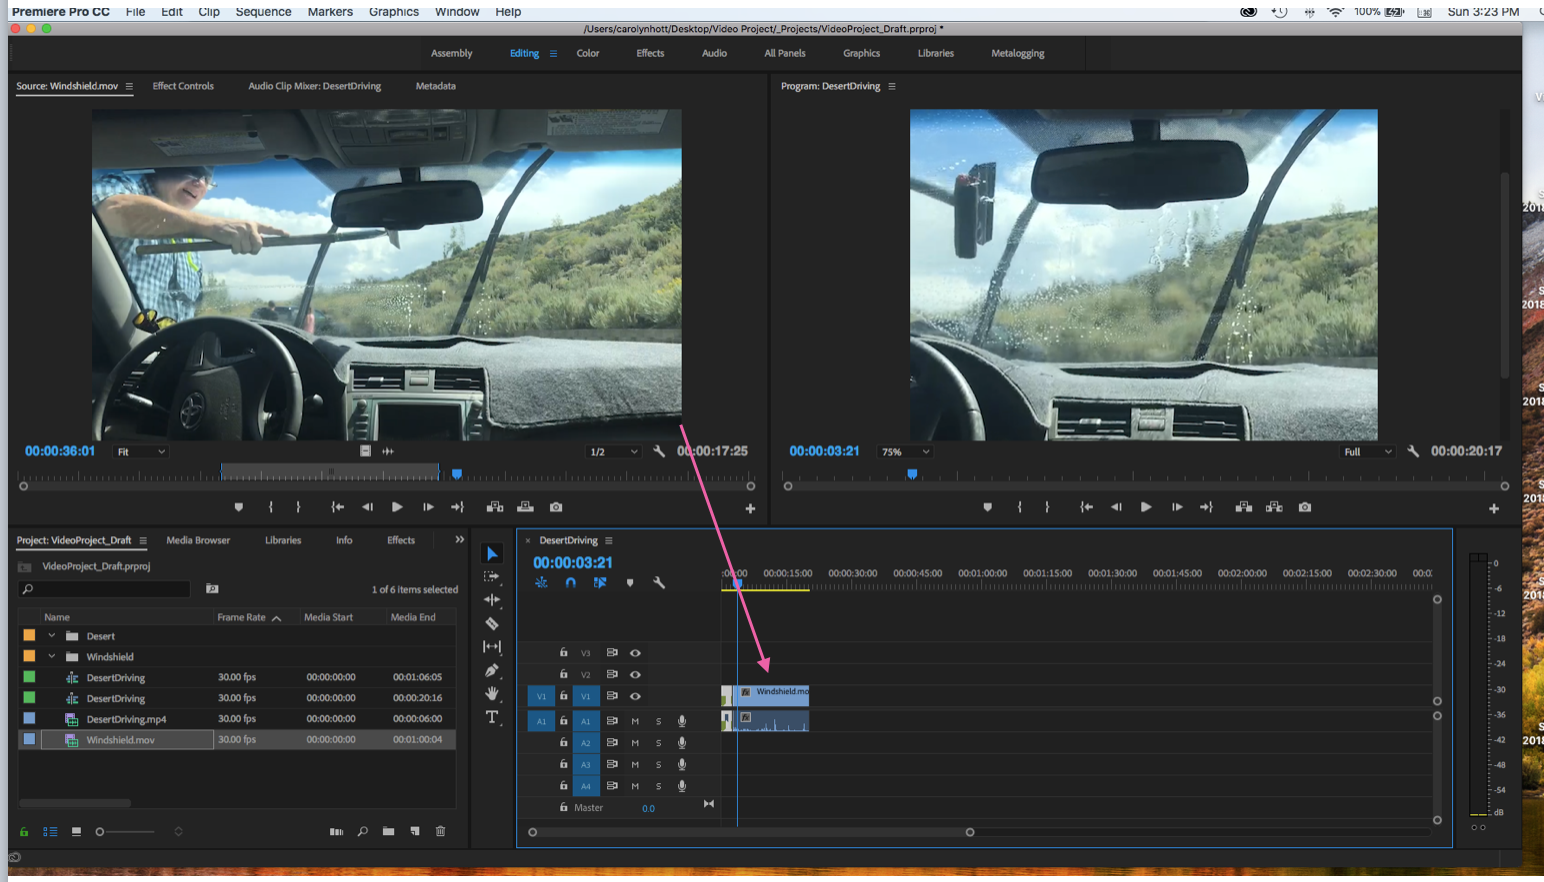
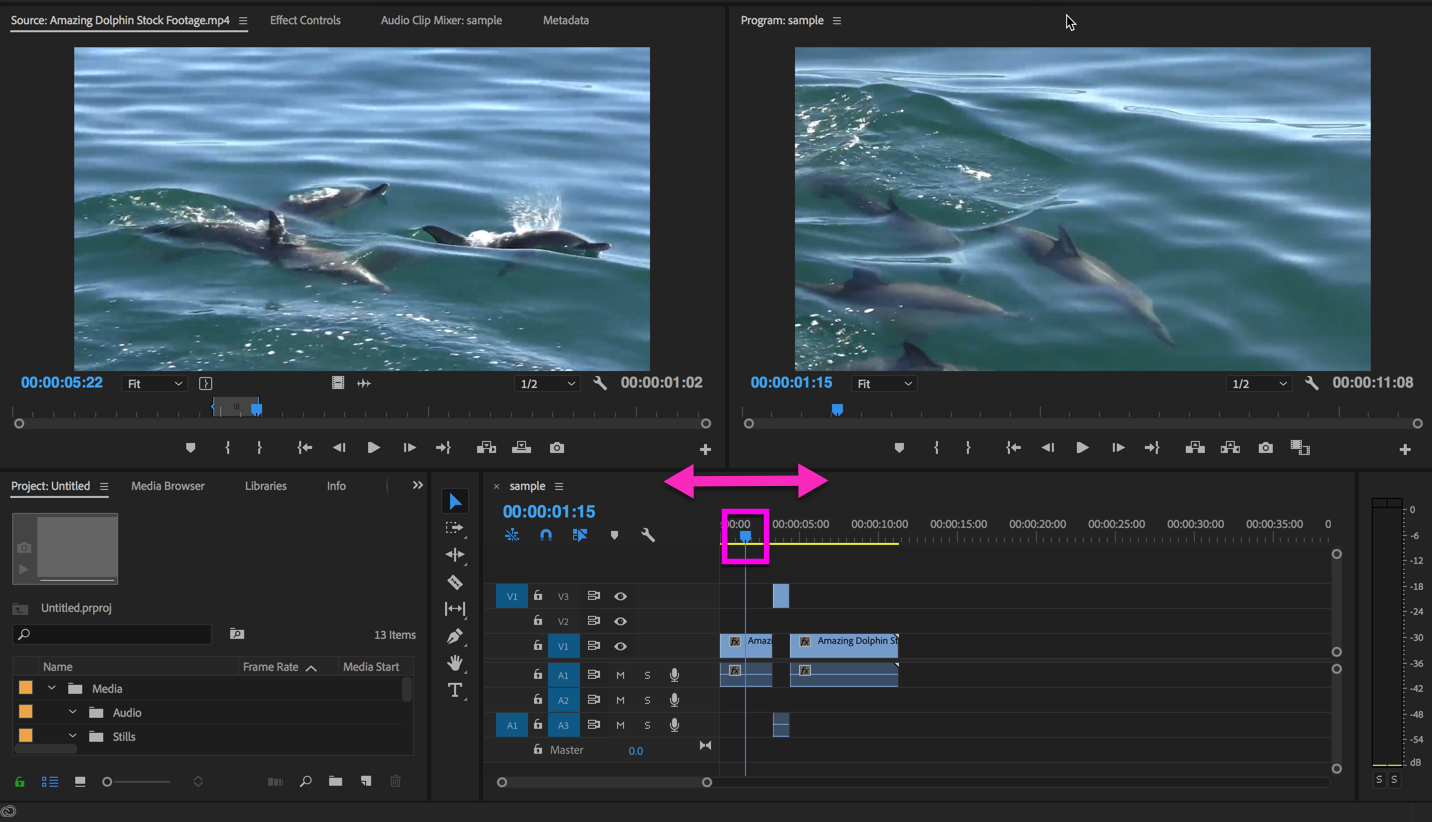
updates to premiere tutorial

diff --git a/tutorials/01_Premiere/README.md b/tutorials/01_Premiere/README.md
@@ -52,15 +52,39 @@ We will watch [Premiere Pro CC 2017 Essential Training: The Basics ](https://www
 
 Organize your files with a consistent folder structure *that's the same for all your projects*. The easiest way to do this is to create a "workflow template" — a set of mostly empty folders that you copy and rename every time you start a new project.
 
-Download the Video Workflow Template zip file in the [resources](../../resources) folder
+1. Create a folder for this class
+
+2. **Download the [Video Workflow Template zip file](../../resources/videoWorkFlowTemplate.zip) and place it in your class folder**
+
+
+3. Unzip and rename the VideoWorkFlowTemplate folder "premiereInClassExercise"
+  * Double-click the file to unzip on a Mac
   * Check out [this tutorial](https://www.techwalla.com/articles/how-to-open-a-mac-zip-file-in-windows) if you are having trouble unzipping it in Windows
 
-It looks like this: <br>
+4. Download the sample footage from the class google drive Assets folder, and add it to the Source Media > Video > fromInternet folder
+
+Your folder structure should look like this: <br>
 ![this](../../resources/videoWorkflowTemplatePic.png)
 <br>
 <br>
 
-Tutorials for renaming all your footage files at once:
+***Tip:***
+
+*When you import footage from you camera, it will probably have meaningless numbered names for the files. You should rename them something that indicates what the footage is. There are ways to rename files in batches with sequential prefixes.*
+
+*For example:*
+
+X679976.mp4
+X679977.mp4
+X679978.mp4
+
+*magically transforms into:*
+
+eveningShoot_Sam_00.mp4
+eveningShoot_Sam_01.mp4
+eveningShoot_Sam_02.mp4
+
+**Tutorials for renaming all your footage files at once:**
 * [Windows users](http://www.ubergizmo.com/how-to/batch-rename-files-windows/)
 * [Mac users](https://www.imore.com/how-rename-multiple-files-once-mac)
 
@@ -76,7 +100,7 @@ Tutorials for renaming all your footage files at once:
 
 Here is [a link](https://helpx.adobe.com/premiere-pro/using/default-keyboard-shortcuts-cc.html) to Adobe's full list of keyboard shortcuts. Below are notable ones to remember.
 
-| Basic Operations          | Window       | Mac         |
+| Basic Operations          | Windows       | Mac         |
 |---------------------------|--------------|-------------|
 |       Save                | Ctrl+S       | Cmd+S       |
 |       Save As...          | Ctrl+Shift+S | Shift+Cmd+S |
@@ -91,7 +115,7 @@ Here is [a link](https://helpx.adobe.com/premiere-pro/using/default-keyboard-sho
 |       Find...             | Ctrl+F       | Cmd+F       |
 
 
-| Sequence shortcuts                                        |              |             |
+| Sequence shortcuts                                        | Windows             |  Mac           |
 |--------------------------------------------------|--------------|-------------|
 |       Play/Stop Toggle                           | Space or K   | Space or K  |
 |         Play: Forward and Backward               | J,K,L        | J, K, L     |
@@ -150,79 +174,99 @@ Here is [a link](https://helpx.adobe.com/premiere-pro/using/default-keyboard-sho
 
 ![Set Up Workspace](assets/2_Premiere_SetUpWorkspace.png)
 
-* Once the workspace is open, go to the ‘Editing’ interface. You can open new tabs in ‘Window’
+* Once the workspace is open, go to the ‘Editing’ interface. You can open new tabs in the ‘Window’ menu at the top.
 
 #### ▼ What is the Workspace?
 
 ![ Workspace](assets/3_Premiere_WhatIsWorkspace.png)
 
-* The Editing Workspace is made up of four main windows: Source Monitor, Program Monitor, Timeline, Tool Palette, Project Window, and Audio Meters
+* The Editing Workspace is made up of four main panels: Source Monitor, Program Monitor, Timeline, Tool Palette, Project Panel, and Audio Meters
 
 #### ▼ Import Footage
 
 ![Import](assets/4_Premiere_Import.png)
 
-* From the Media Browser in the Project Window, right click in the window (or Cmd I/Ctrl I) and select ‘Import” and locate footage on your computer
-* Once footage is in the Media Browser you can hover over it to make sure it is the footage you want
-* Footage is now in the ‘Media Bin’
-* Double click on footage and it will show in the Source Monitor
+* From the Project tab in the Project Panel, hit Cmd I/Ctrl I or right-click in the panel and select ‘Import”.
+* Locate footage on your computer and import
+  - \*These should be in your Source Media > Video folder
+* Once footage is in the Project tab you can hover over it to make sure it is the footage you want
+* This footage is now available for use in your project!
+
+#### ▼ Save Your Project
+* If you haven't already, save your project now.
+* An asterisk next to the file name means there are unsaved changes
 
 #### ▼ View and Organize Footage
 
 ![Footage](assets/5_Premiere_OrganizeFtg.png)
 
 * Double click on footage and it will show in the Source Monitor
-* In the Media Bin, rename and organize footage as desired- keep organized according to type of shot
-* Press Command + B (mac) or Ctrl + B (windows) while in the bin in the Project window to create new ‘bins’ (folders) within your Media bin.
+* In the Project tab, rename and organize footage as desired- keep organized according to type of shot
+* Press Command + B (mac) or Ctrl + B (windows) to create new ‘bins’ (folders)
+* DON'T SKIP THIS STEP--->>>> ***KEEP YOUR FOOTAGE ORGANIZED YOU WILL THANK YOURSELF LATER***
 
-#### ▼ Select a clip within Footage
+![Folder Organization](assets/5_Premiere_OrganizeFtg_1.png)
+* ^ Here is an example of a folder structure for organization. You can create one that works for you.
+
+#### ▼ Isolate clip within Footage
 
 ![Select Clip](assets/6_Premiere_SelectFtg.png)
 
-* If you don’t want to use all of your footage but want to select a clip within footage to use in your video:
-* Click in your Source Monitor window and press play, or the space bar and decide what you want to use
-* You can save the place of where you want your clip by using the ‘Marker’ arrows
-* Where you want your clip to begin, press ‘I’, or use the ‘Mark In’ tool ‘{‘
-* Where you want your clip to end, press ‘O’ or use the ‘Mark Out’ tool ‘}’
+* You probably won't be using your entire clip, so you need to isolate the footage you want to edit
+* Click in your Source Monitor panel and preview footage
+  * Navigate footage with play / space bar
+  * OR! use j k and l to go backwards and forwards. If you double click on one it will play twice as fast
+* (You can bookmark places in your clip by using the ‘Marker’ arrows or by hitting m)
+* To set your **in-point** - where you want your clip to begin - press ‘I’, or use the ‘Mark In’ tool ‘{‘
+* To set your **out-point** - where you want your clip to end - press ‘O’ or use the ‘Mark Out’ tool ‘}’
 
 #### ▼ Put Footage in Timeline
 
 ![Timeline](assets/7_Premiere_FtgTimeline.png)
 
-* Once your clip is selected (if you chose one), drag from Source Monitor to Timeline, to put your selected clip in the timeline
-* Drop the clip in the center closest to the dividing bar.
-* It will show up on your timeline, displaying the audio below, and the video above.
+* Once your clip is selected (if you chose one), drag from Source Monitor to Timeline, to put your selected clip in the Timeline Panel
+* It will show up on your timeline and automatically create a new sequence
+* There are two bands: the audio below, and the video above.
+* ---> name your sequence in the Project Tab and place it in an appropriate folder
 
 #### ▼ View Timeline Project in Program Monitor
 
 ![Timeline](assets/8_Premiere_ViewTimeline.png)
 
 * When you press Play on the Program Monitor, or hit the Space Bar when in the Timeline, your footage will play.
-* You can adjust the fit of your footage in the video under ‘Fit’
-* You can double click on the video in the Program Monitor to reposition your footage
+* You can adjust the fit of your footage in the video under the dropdown menu ‘Fit’, where you can specify zoom percentages.
+* You can double click on the video in the Program Monitor to reposition your footage =p
 
 #### ▼ Add a Second Clip to the Timeline
 
 ![Timeline](assets/9_Premiere_AddTimeline.png)
 
-* In the Media Bin, double click on the footage you would like to add so that it appears in the Source Monitor
-* Select a clip as you did before (if desired), and drag from the Source Monitor to the Timeline
+* There are many ways to add media into your timeline.
+* The "3-point edit" is a more precise alternative to clicking and dragging
+* To make a 3-point edit, mark an in and out point in the Source Panel, and *either* an in or out point in your Timeline Panel.
+* Next, click on the **insert or overwrite icons** in the Source Panel
+* Check out the difference between insert and overwrite:
+  - Insert will scoot the existing footage over
+  - Overwrite will plop it on top
 
-#### ▼ View Full Timeline Project in Program Monitor
+#### ▼ View Sequence in Program Monitor
 
 ![Timeline](assets/10_Premiere_ViewTimeline.png)
 
-* Your second clip should back up directly to your first clip on the Timeline
-* Pull your Timeline Needle (or Playhead) to the beginning of your timeline, then hit the Space Bar to play through your project and see what you have in the Program Monitor
+* Pull the Timeline Needle (or Playhead) to scroll through your timeline
+* Hit the Space Bar (or j, k, l) to see your edits in the Program Monitor
 
 #### ▼ Add Transition Effects
 
 ![Effects](assets/11_Premiere_AddTransition.png)
 
-* Select the Effects Window in the Project Window (where your Media Bin is)
+* Select the Effects Tab in the Project Window (where your source footage is)
 * Click on Video Transitions to see a menu of transition types
 * Click on Dissolves and select ‘Cross Dissolve’
 * Drag from the Cross Dissolve box to the place on your Timeline where you want to transition (between your two clips)
+
+<br>
+<br>
 
 #### ▼ View Transition
 
@@ -231,33 +275,6 @@ Here is [a link](https://helpx.adobe.com/premiere-pro/using/default-keyboard-sho
 * The Cross Dissolve should appear as a bar that bridges two of your video clips (audio transitions are separate)
 * Hover over the bridge with your mouse until a bracket appears- you can use this bracket to adjust the time span of the transition
 * Play your project in the Program Monitor to view your transition
-
-
-# ▼△▼△▼ Color Correction
-
-Tutorials:
-* [Adobe support docs (text)](https://helpx.adobe.com/premiere-pro/using/color-correction-adjustment.html)
-* [Fast Color Corrector](https://www.youtube.com/watch?v=1drvNwiDEjU)
-  * Easy color (white balance correction)
-* [Basic correction with Lumetri](https://www.youtube.com/watch?v=0VDbf9VsZ88)
-
-#### ▼ Adjust Exposure and Color
-
-![Color](assets/13_Premiere_AdjustExposureColor.png)
-
-* In the Effects Window, Select Video Effects, then select Color Correction, and then select Color Balance
-* Drag the Color Balance icon over to the clip in your Timeline that you would like to adjust
-
-
-![Color](assets/14_Premiere_AdjustColor_Two.png)
-
-* Select the Effect Controls window, which is behind your Source Monitor
-* Select Lumetri Color and scroll down to see the ‘Curves’ panel
-* Here you can just Exposure, and Red, Green, and Blue (RGB!! Screen Colors) balance
-* Select the Color and then move the curve to see the changes in the Program Monitor
-
-
-
 <br>
 <br>
 
@@ -293,8 +310,38 @@ You can create individual titles, but Premiere has a specific tool for creating 
 <br>
 <br>
 
+# ▼△▼△▼ Color Correction
+
+--> ***Tutorials:***
+* [Adobe support docs (text)](https://helpx.adobe.com/premiere-pro/using/color-correction-adjustment.html)
+* [Fast Color Corrector](https://www.youtube.com/watch?v=1drvNwiDEjU)
+  * Easy color (white balance correction)
+* [Basic correction with Lumetri](https://www.youtube.com/watch?v=0VDbf9VsZ88)
+
+#### ▼ Adjust Exposure and Color
+
+![Color](assets/13_Premiere_AdjustExposureColor.png)
+
+* In the Effects Panel, Select Video Effects, then select Color Correction, and then select Color Balance
+* Drag the Color Balance icon over to the clip in your Timeline that you would like to adjust
+
+
+![Color](assets/14_Premiere_AdjustColor_Two.png)
+
+* Select the Effect Controls tab, which is behind your Source Monitor
+* Select Lumetri Color and scroll down to see the ‘Curves’ panel
+* Here you can just Exposure, and Red, Green, and Blue (RGB!! Screen Colors) balance
+* Select the Color and then move the curve to see the changes in the Program Monitor
+
+
+
+<br>
+<br>
+
+
 # ▼△▼△▼ Working with Audio
 
+---> ***Tutorials***
 * [Adobe support docs (text)](https://helpx.adobe.com/premiere-pro/user-guide.html?topic=/premiere-pro/morehelp/audio.ug.js)
 * [Basic audio levels and fades](https://www.youtube.com/watch?v=t0IAJSFl5Ww)
 * [Fine-tuning with audio within Premiere](https://www.youtube.com/watch?v=MmiRBsAshOQ)
